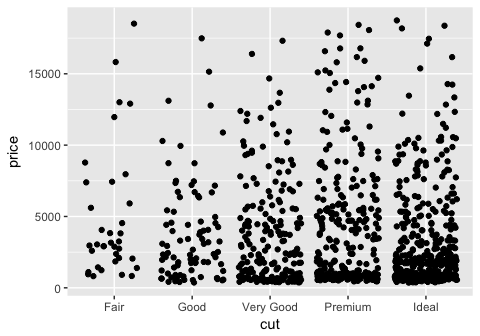
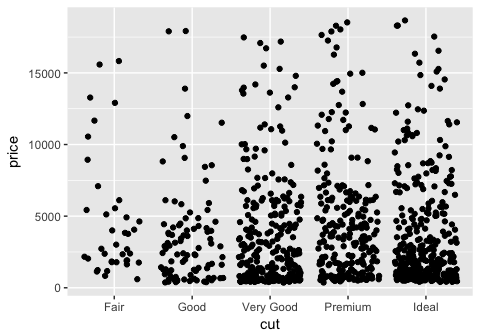
update chapter 7 and 8

diff --git a/r4ds_chapters7-8_walkthrough.md b/r4ds_chapters7-8_walkthrough.md
@@ -458,110 +458,17 @@ both ?geom\_bar and ?geom\_histogram state that "na.rm - If FALSE, the default, 
 
 ``` r
 # histogram of vector of random numbers, normally distributed
-(x <- data.frame(x = rnorm(100,5,3)))
+x <- data.frame(x = rnorm(100,5,3))
+head(x)
 ```
 
-    ##               x
-    ## 1    3.39084855
-    ## 2    4.16907871
-    ## 3    3.97250695
-    ## 4    5.22485829
-    ## 5    5.57686624
-    ## 6    0.50960427
-    ## 7    3.92023048
-    ## 8    0.92876581
-    ## 9    5.60063905
-    ## 10   4.05987577
-    ## 11   6.42609310
-    ## 12   1.81931636
-    ## 13   2.79807156
-    ## 14   9.83680887
-    ## 15   0.43218308
-    ## 16  -0.04750235
-    ## 17   4.34682718
-    ## 18   4.69729016
-    ## 19   3.59010459
-    ## 20   1.85558868
-    ## 21   6.42276996
-    ## 22   6.86521323
-    ## 23   2.67772287
-    ## 24   9.00169140
-    ## 25   3.88215803
-    ## 26  -0.69386145
-    ## 27   5.00047737
-    ## 28   6.10927737
-    ## 29  11.09748240
-    ## 30   0.54424341
-    ## 31   2.91098336
-    ## 32   1.49413106
-    ## 33   8.55228187
-    ## 34   1.68822666
-    ## 35   2.99806659
-    ## 36  -0.15480530
-    ## 37   8.36406259
-    ## 38   4.01684969
-    ## 39   7.81292595
-    ## 40   3.87034989
-    ## 41   9.10864596
-    ## 42   3.14728588
-    ## 43   5.45744225
-    ## 44   5.55122302
-    ## 45   2.02971689
-    ## 46  13.77510767
-    ## 47   2.15457514
-    ## 48  -1.20039121
-    ## 49   3.17332532
-    ## 50   4.49057257
-    ## 51   1.59419949
-    ## 52   4.54704636
-    ## 53   4.80744021
-    ## 54   4.79778844
-    ## 55   8.03994674
-    ## 56   8.98825130
-    ## 57   5.25417251
-    ## 58   5.19378458
-    ## 59   2.68999052
-    ## 60   9.22907625
-    ## 61   8.40086575
-    ## 62  -0.72425179
-    ## 63   6.24689922
-    ## 64   8.68667506
-    ## 65   1.19198122
-    ## 66   2.77100346
-    ## 67  11.11459981
-    ## 68  11.02469663
-    ## 69   2.01784897
-    ## 70   2.56303048
-    ## 71   1.86822831
-    ## 72   4.03417406
-    ## 73   9.60387573
-    ## 74   1.36020567
-    ## 75   7.13149569
-    ## 76   8.45918983
-    ## 77   5.68034451
-    ## 78   3.49562649
-    ## 79   9.14027460
-    ## 80   4.06966359
-    ## 81   5.60200135
-    ## 82  10.74479371
-    ## 83  11.95223418
-    ## 84   8.71119047
-    ## 85   3.33008336
-    ## 86   4.32633858
-    ## 87   4.53932516
-    ## 88   6.48085049
-    ## 89   4.09861284
-    ## 90   3.96152149
-    ## 91   2.86283595
-    ## 92   8.69889233
-    ## 93   7.00191592
-    ## 94   5.16768945
-    ## 95   4.37093576
-    ## 96   1.45058752
-    ## 97   2.45355884
-    ## 98   2.46117680
-    ## 99   5.76862146
-    ## 100  6.25201120
+    ##          x
+    ## 1 2.581630
+    ## 2 5.317133
+    ## 3 1.271438
+    ## 4 6.112641
+    ## 5 3.899790
+    ## 6 1.056021
 
 ``` r
 ggplot(x, aes(x))+
@@ -574,110 +481,17 @@ ggplot(x, aes(x))+
 
 ``` r
 # replace a chunk of values with NA and see what that does to the histogram.
-(add_na <- mutate(x, x = ifelse(x > 5 & x <8, NA, x)))
+add_na <- mutate(x, x = ifelse(x > 5 & x <8, NA, x))
+head(add_na)
 ```
 
-    ##               x
-    ## 1    3.39084855
-    ## 2    4.16907871
-    ## 3    3.97250695
-    ## 4            NA
-    ## 5            NA
-    ## 6    0.50960427
-    ## 7    3.92023048
-    ## 8    0.92876581
-    ## 9            NA
-    ## 10   4.05987577
-    ## 11           NA
-    ## 12   1.81931636
-    ## 13   2.79807156
-    ## 14   9.83680887
-    ## 15   0.43218308
-    ## 16  -0.04750235
-    ## 17   4.34682718
-    ## 18   4.69729016
-    ## 19   3.59010459
-    ## 20   1.85558868
-    ## 21           NA
-    ## 22           NA
-    ## 23   2.67772287
-    ## 24   9.00169140
-    ## 25   3.88215803
-    ## 26  -0.69386145
-    ## 27           NA
-    ## 28           NA
-    ## 29  11.09748240
-    ## 30   0.54424341
-    ## 31   2.91098336
-    ## 32   1.49413106
-    ## 33   8.55228187
-    ## 34   1.68822666
-    ## 35   2.99806659
-    ## 36  -0.15480530
-    ## 37   8.36406259
-    ## 38   4.01684969
-    ## 39           NA
-    ## 40   3.87034989
-    ## 41   9.10864596
-    ## 42   3.14728588
-    ## 43           NA
-    ## 44           NA
-    ## 45   2.02971689
-    ## 46  13.77510767
-    ## 47   2.15457514
-    ## 48  -1.20039121
-    ## 49   3.17332532
-    ## 50   4.49057257
-    ## 51   1.59419949
-    ## 52   4.54704636
-    ## 53   4.80744021
-    ## 54   4.79778844
-    ## 55   8.03994674
-    ## 56   8.98825130
-    ## 57           NA
-    ## 58           NA
-    ## 59   2.68999052
-    ## 60   9.22907625
-    ## 61   8.40086575
-    ## 62  -0.72425179
-    ## 63           NA
-    ## 64   8.68667506
-    ## 65   1.19198122
-    ## 66   2.77100346
-    ## 67  11.11459981
-    ## 68  11.02469663
-    ## 69   2.01784897
-    ## 70   2.56303048
-    ## 71   1.86822831
-    ## 72   4.03417406
-    ## 73   9.60387573
-    ## 74   1.36020567
-    ## 75           NA
-    ## 76   8.45918983
-    ## 77           NA
-    ## 78   3.49562649
-    ## 79   9.14027460
-    ## 80   4.06966359
-    ## 81           NA
-    ## 82  10.74479371
-    ## 83  11.95223418
-    ## 84   8.71119047
-    ## 85   3.33008336
-    ## 86   4.32633858
-    ## 87   4.53932516
-    ## 88           NA
-    ## 89   4.09861284
-    ## 90   3.96152149
-    ## 91   2.86283595
-    ## 92   8.69889233
-    ## 93           NA
-    ## 94           NA
-    ## 95   4.37093576
-    ## 96   1.45058752
-    ## 97   2.45355884
-    ## 98   2.46117680
-    ## 99           NA
-    ## 100          NA
+    ##          x
+    ## 1 2.581630
+    ## 2       NA
+    ## 3 1.271438
+    ## 4       NA
+    ## 5 3.899790
+    ## 6 1.056021
 
 ``` r
 ggplot(add_na, aes(x))+
@@ -686,7 +500,7 @@ ggplot(add_na, aes(x))+
 
     ## `stat_bin()` using `bins = 30`. Pick better value with `binwidth`.
 
-    ## Warning: Removed 22 rows containing non-finite values (stat_bin).
+    ## Warning: Removed 28 rows containing non-finite values (stat_bin).
 
 ![](r4ds_chapters7-8_walkthrough_files/figure-markdown_github/introduce_NA_hist_bin-2.png)
 
@@ -979,16 +793,16 @@ The plots generated by geom\_jitter() are very similar to the stripchart() from 
     ## # A tibble: 1,000 x 10
     ##    carat cut       color clarity depth table price     x     y     z
     ##    <dbl> <ord>     <ord> <ord>   <dbl> <dbl> <int> <dbl> <dbl> <dbl>
-    ##  1 0.730 Very Good G     VVS1     60.2   61.  3567  5.83  5.89  3.53
-    ##  2 0.930 Ideal     G     SI1      62.0   56.  4546  6.22  6.26  3.87
-    ##  3 1.21  Premium   F     VS2      60.1   55.  8870  7.01  6.91  4.18
-    ##  4 0.510 Ideal     E     SI1      62.5   56.  1443  5.10  5.07  3.18
-    ##  5 1.51  Very Good J     SI1      60.9   59.  7812  7.33  7.41  4.49
-    ##  6 0.420 Very Good F     IF       60.0   58.  1722  4.87  4.90  2.93
-    ##  7 1.58  Very Good H     SI2      62.4   57.  8620  7.36  7.45  4.62
-    ##  8 0.540 Ideal     G     SI2      60.4   59.  1153  5.24  5.29  3.18
-    ##  9 0.310 Ideal     G     VS2      61.6   55.   698  4.39  4.37  2.70
-    ## 10 1.00  Very Good F     SI2      63.2   59.  3799  6.31  6.25  3.97
+    ##  1 1.72  Premium   J     SI1      62.0   56.  6857  7.76  7.70  4.79
+    ##  2 0.310 Ideal     E     VS2      61.8   54.   680  4.36  4.41  2.71
+    ##  3 1.51  Premium   G     VS2      62.5   59. 12756  7.28  7.34  4.57
+    ##  4 0.330 Ideal     H     VVS1     62.5   56.   901  4.44  4.42  2.77
+    ##  5 1.31  Premium   G     VS2      61.3   58.  9085  7.05  7.01  4.31
+    ##  6 1.21  Premium   E     SI2      61.9   60.  6071  6.78  6.73  4.18
+    ##  7 0.810 Premium   J     VS2      60.6   60.  2129  6.04  6.00  3.65
+    ##  8 0.900 Premium   F     SI2      62.6   62.  3210  6.06  6.01  3.78
+    ##  9 0.700 Premium   G     VVS2     59.6   61.  2737  5.86  5.78  3.47
+    ## 10 1.29  Very Good I     VS1      61.1   58.  5562  6.98  7.03  4.28
     ## # ... with 990 more rows
 
 ``` r
